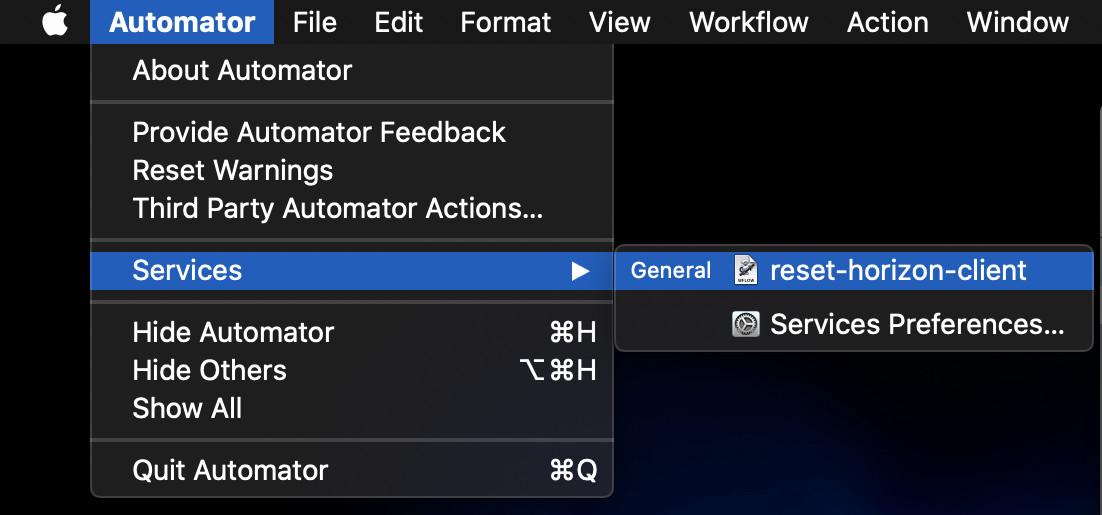
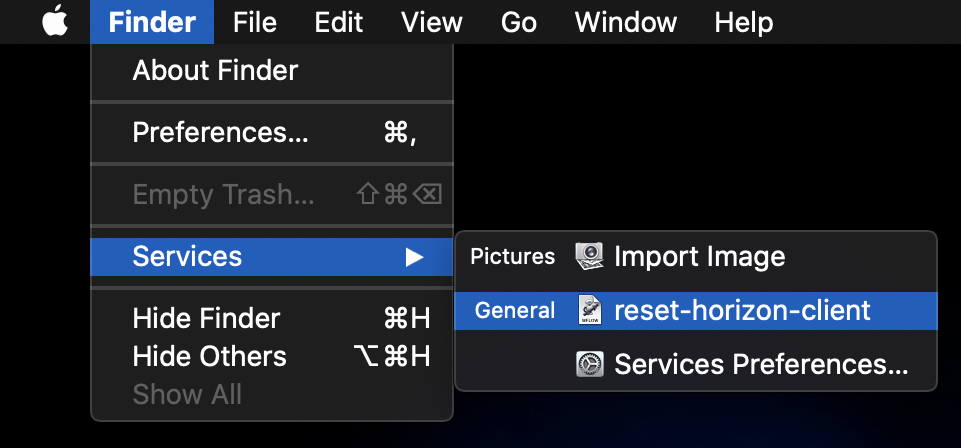
Update instructions with new workflow name, launch through Finder

diff --git a/README.md b/README.md
@@ -4,7 +4,7 @@ macOS Automator workflow to reinstall VMware Horizon View client
 # Introduction
 The experience of using VMware Horizon View on macOS has been fairly disappointing for me - I frequently notice that I encounter "SSL Connection Error" or "Connection timed out" problems in connecting to my desktop, which are only alleviated upon uninstalling and reinstalling the client. I also have noticed that sometimes, a complete reboot of my machine is required in order to get the connection into a workable state.
 
-As I've spent a fair amount of time trying manual workarounds to make this work, I ended up automating the process. This repoi provides a macOS Automator "Quick Actions" workflow (`Reset VPN Client`) that makes it as simple as one click to perform the following steps:
+As I've spent a fair amount of time trying manual workarounds to make this work, I ended up automating the process. This repoi provides a macOS Automator "Quick Actions" workflow (`reset-horizon-client`) that makes it as simple as one click to perform the following steps:
 * Quit VMware Horizon Client
 * Quit Cisco AnyConnect Client
 * Reinstall the Horizon Client (by deleting it from /Applications, then copying it back from the official disk image)
@@ -18,5 +18,5 @@ As I've spent a fair amount of time trying manual workarounds to make this work,
 > :warning: **This workflow will reboot your computer without further confirmation once it is finished.** Make sure that you have saved all work, and use at your own risk!
 
 1. Clone this repo - `git clone https://github.com/bghinkle/reset-horizon-client.git`
-2. Copy the workflow to your local Services folder - `cp -r "reset-horizon-client/Reset VPN Setup.workflow" ~/Library/Services/`
-3. From any window in Finder, select the application menu, then Services, then "Reset VPN Setup" (example below)
+2. Copy the workflow to your local Services folder - `cp -r "reset-horizon-client/reset-horizon-client.workflow" ~/Library/Services/`
+3. Open the Finder - then click on the Finder menu in the menu bar, then Services, then "reset-horizon-client" (example below)
